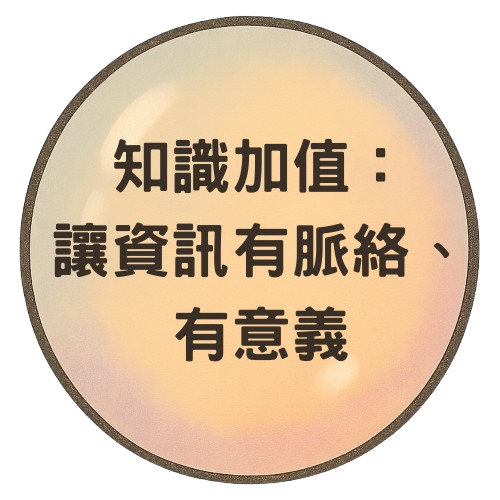
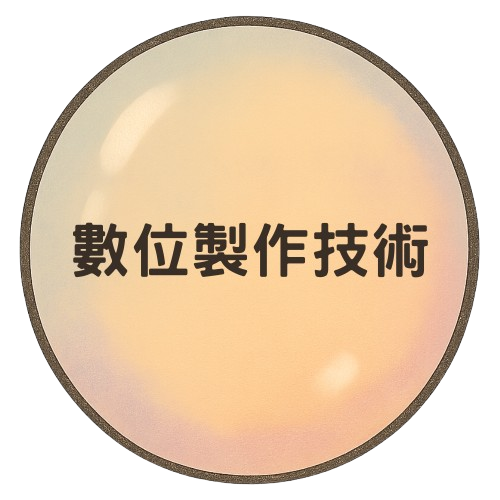
泡泡區更新

diff --git a/script.js b/script.js
@@ -100,7 +100,9 @@ document.addEventListener("DOMContentLoaded", () => {
     "bubble5.png",
     "bubble6.png",
     "bubble7.png",
-    "bubble8.png"
+    "bubble8.png",
+    "bubble9.png",
+    "bubble10.png"
   ];
 
   let index = 0; // 當前圖片索引
